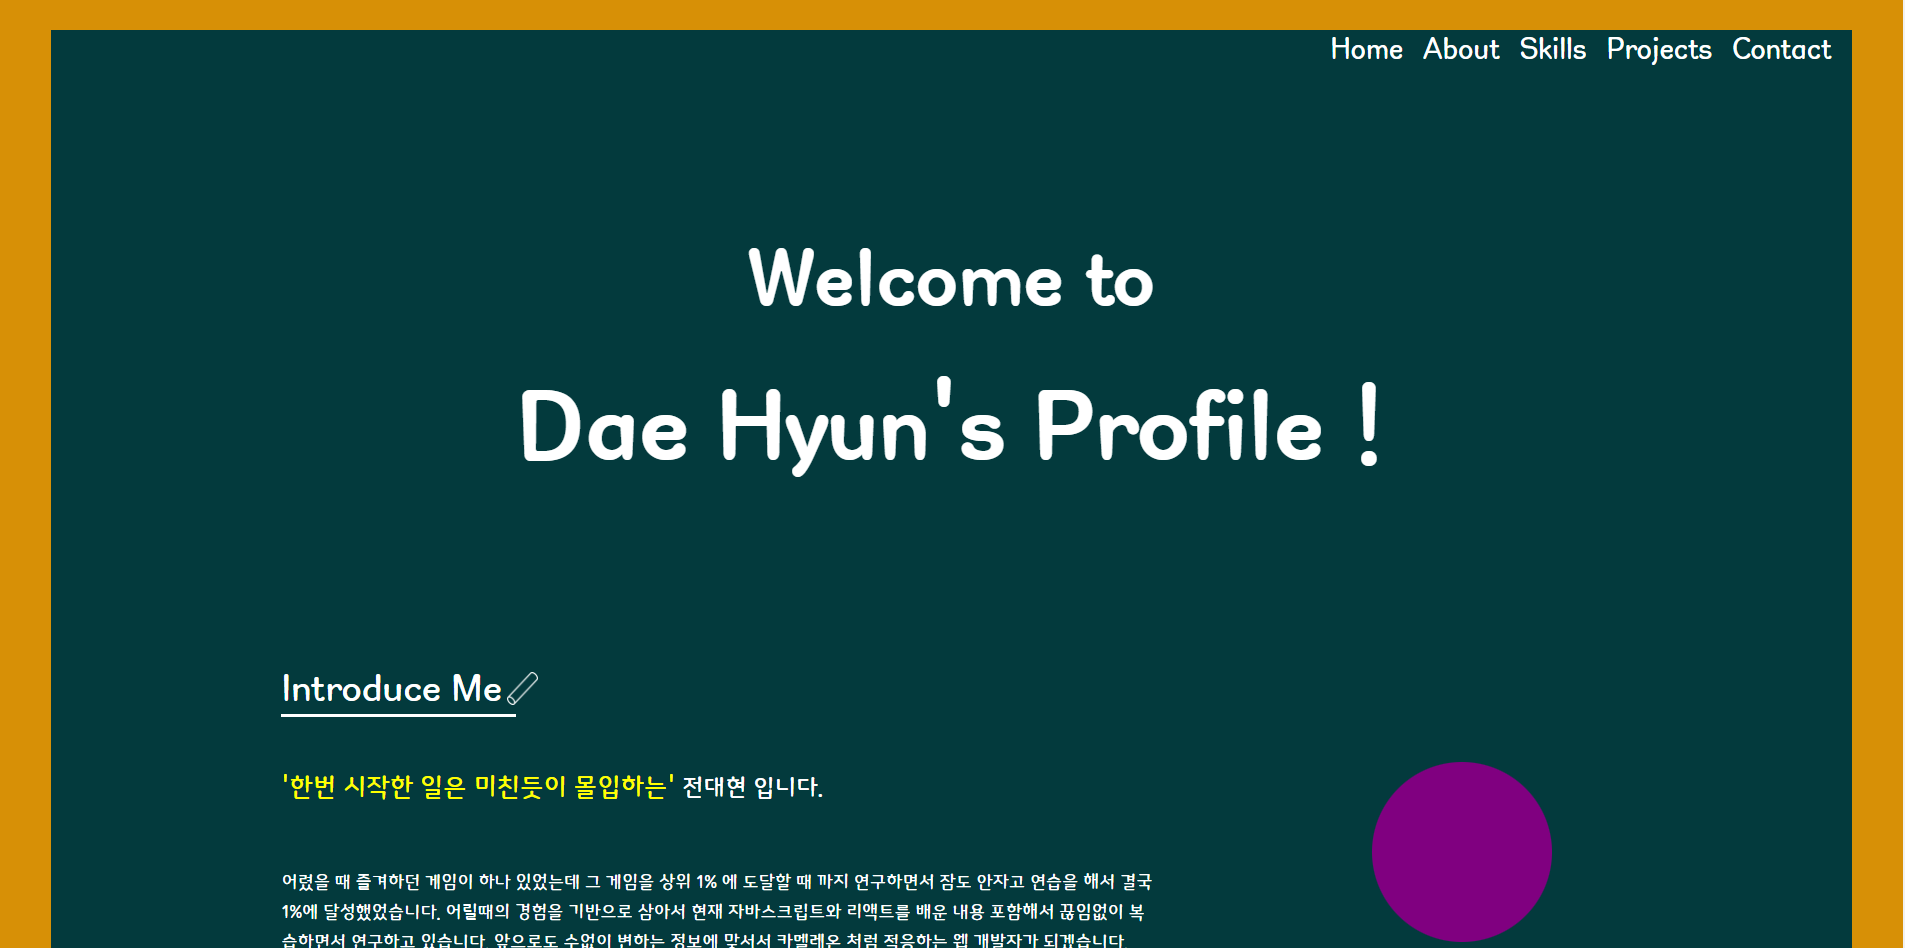
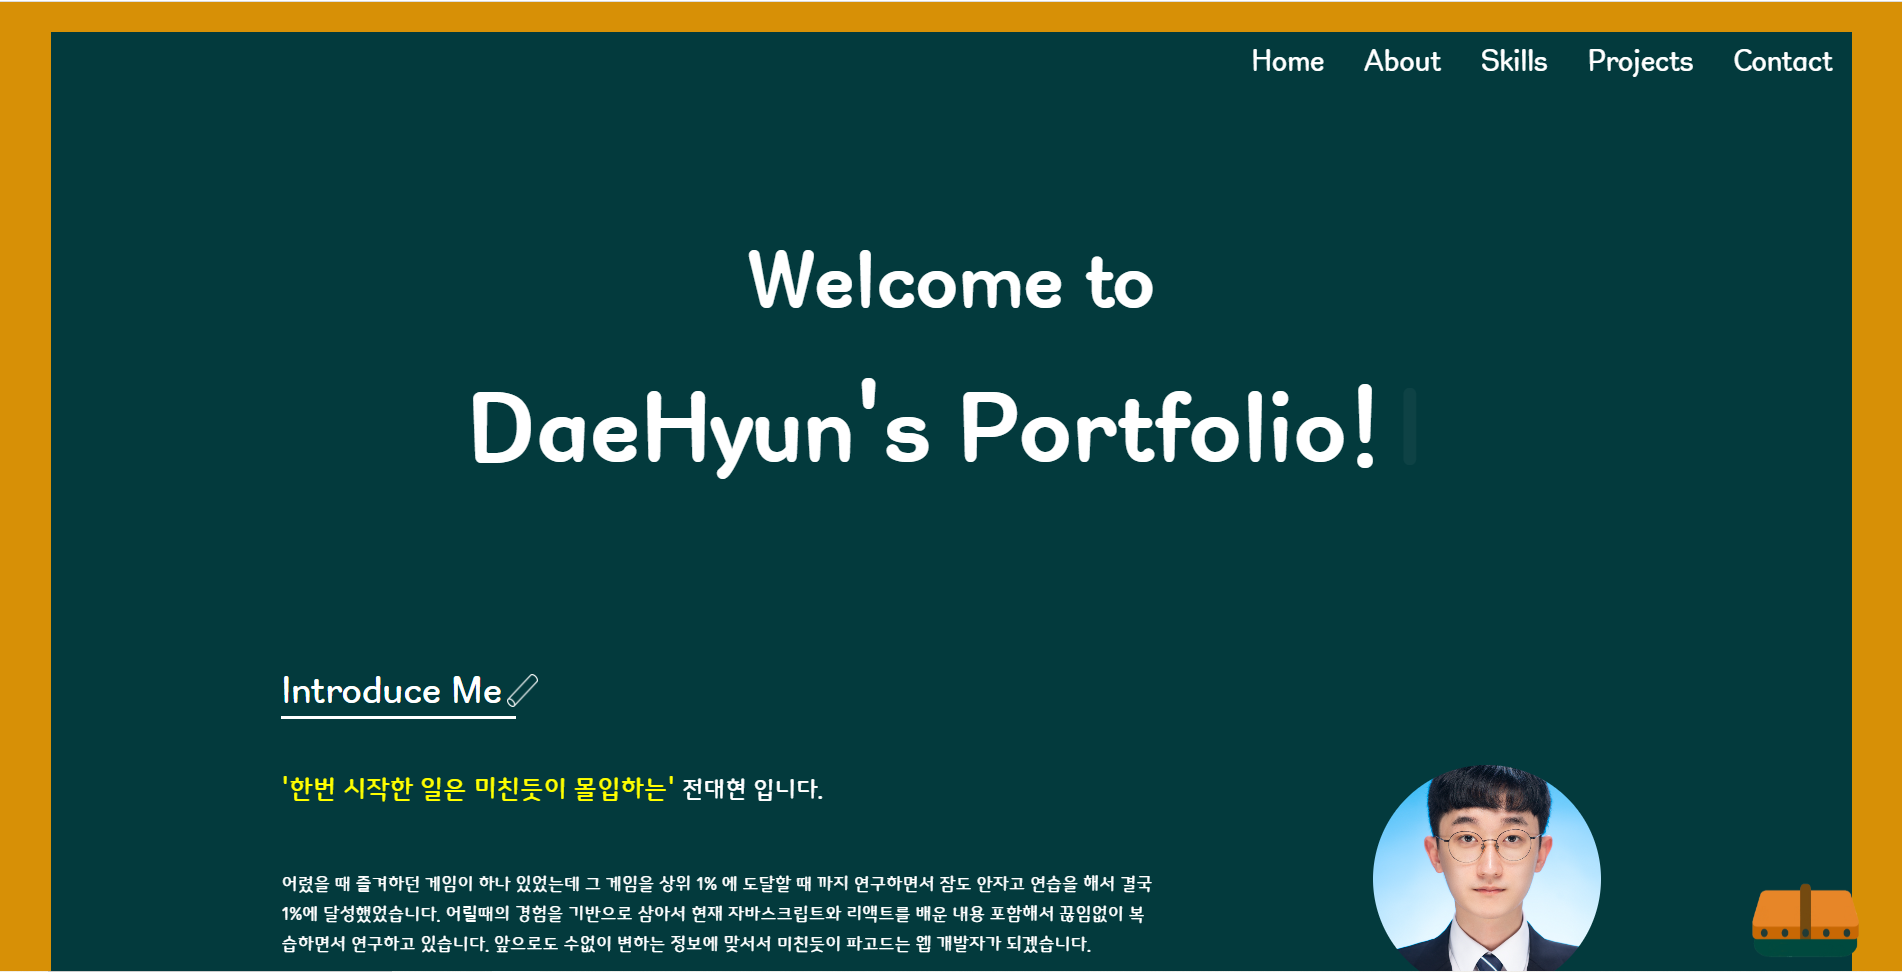
학원에서 작업

diff --git a/scss/index.scss b/scss/index.scss
@@ -179,17 +179,27 @@ h1 {
                     height: 140px;
                     border: 1px solid transparent;
                     border-radius: 50%;
-                    background-color: purple;
+                    background-color: transparent;
                     margin-bottom: 50px;
+                    object-fit: cover;
+                    margin-left: 150px;
 
                     @include responsive (tablet-screens) {
                         width: 180px;
                         height: 180px;
+                        margin-left: 0;
                     }
 
                     @include responsive (pc-screens) {
-                        width: 200px;
-                        height: 200px;
+                        width: 230px;
+                        height: 230px;
+                    }
+
+                    img {
+                        width: 100%;
+                        height: 100%;
+                        object-fit: cover;
+                        border-radius: 50%;
                     }
                 }
             }

diff --git a/index.html b/index.html
@@ -45,7 +45,7 @@
             <span class="line"></span>
             <div class="img-profile-flexbox">
                 <div class="img">
-                    <span class="circle"></span>
+                    <div class="circle"><img src="./img/photo.jpg"></div>
                 </div>
                 <div class="profile" data-aos="fade-up" data-aos-duration="1000">
                     <p><span class="strong">'한번 시작한 일은 미친듯이 몰입하는' </span><br>전대현 입니다.</p>
@@ -76,7 +76,7 @@
                     <p class="text">HTML5에 사용중인 시멘틱 태그를
                         활용하여 반응형에 적응할 수 잇는
                         페이지를 제작 가능합니다. </p>
-                </div>
+                </div>  
                 
                 <div class="detail">
                     <div class="wrapper">

diff --git a/css/index.css b/css/index.css
@@ -194,20 +194,29 @@ h1 {
   height: 140px;
   border: 1px solid transparent;
   border-radius: 50%;
-  background-color: purple;
+  background-color: transparent;
   margin-bottom: 50px;
+  object-fit: cover;
+  margin-left: 150px;
 }
 @media screen and (min-width: 768px) {
   .container .intro .img-profile-flexbox .img .circle {
     width: 180px;
     height: 180px;
+    margin-left: 0;
   }
 }
 @media screen and (min-width: 1440px) {
   .container .intro .img-profile-flexbox .img .circle {
-    width: 200px;
-    height: 200px;
+    width: 230px;
+    height: 230px;
   }
+}
+.container .intro .img-profile-flexbox .img .circle img {
+  width: 100%;
+  height: 100%;
+  object-fit: cover;
+  border-radius: 50%;
 }
 .container .intro .img-profile-flexbox .profile {
   margin-bottom: 90px;
